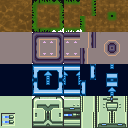
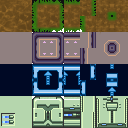
Add sketch of level 2

diff --git a/src/game/level1.cpp b/src/game/level1.cpp
@@ -17,78 +17,148 @@
 #include "game/game.h"
 #include "game/entities/switch.h"
 
-void loadLevel1(Matrix<int>& tiles, Vector2i& start, IGame* game)
-{
-  const auto W = 32 * 2;
-  const auto H = 32 * 2;
+const auto W = 32 * 2;
+const auto H = 32 * 2;
 
-  const char data[H][W + 1] =
-  {
-    "................................................................",
-    "...       .........................       ......................",
-    "...                                                           ..",
-    "...    !           ..........  ....       .......  .......... ..",
-    "............       .........   ..................  .......... ..",
-    "............       .........  ..............   A   .X.......  ..",
-    ".       ....   ... .........   ..       ....   ... .........   .",
-    ".              ...     ......  ..              ... ..........  .",
-    ".           ..............     ..           ..............     .",
-    ".       ..................    ...       ..................    ..",
-    ".  ..........        ........ ...  ..........        ........ ..",
-    ". ........... ...... ........ ...  .......... ...... ........ ..",
-    "............. ...... ............ ........... ...... ........ ..",
-    ".             ......          ... ..          ......          ..",
-    "..           ................      .         ...................",
-    ".. ......................................... ...................",
-    ".. .........................................            a ......",
-    "..        ...................             .........XXXXXXXXXXXXX",
-    "XXX                           XXXXX                           XX",
-    "XXX                XXXXXXXXXX XXXXX                XXXXXXXXXX XX",
-    "XXXXXXXXXXXXXXXXXXBXXXXXXXXXX XXXXXXXXXXXXXX       XXXXXXXXXX XX",
-    "XXXXXXXXXXXX       XZXXXXXXX  XXXXXXXXXXXXXX       XXXXXXXXX  XX",
-    "X       XXXX   XXX XXXXXXXXX   XXXXXXXXXXXXX   XXX XXXXXXXXX   X",
-    "X              XXX XXXXXXXXXX  XXXXXXXXX       XXX XXXXXXXXXX  X",
-    "X           XXXXXXXXXXXXXX     XXXXXXXXX    XXXXXXXXXXX        X",
-    "X       XXXXXXXXXXXXXXXXXX    XXXXXXXXXXXXXXXXXXXXXXXXX XX    XX",
-    "X  XXXXXXXXXX        XXXXXXXXXXXXXXXXXXXXXXXX        XX XXXXX XX",
-    "X  XXXXXXXXXX XXXXXX XXXXXXXX            XXXX XXXXXX XX       bX",
-    "X XXXXXXXXXXX XXXXXX XXXXXXXX            XXXX XXXXXX XXXXXXXXXXX",
-    "X             XXXXXX          XXXXXXXXXX      XZXXXX           X",
-    "XXX          XXXXXXXXXXXXXXXXXXXXXXXXXXX     XXXXXXXXXXXXXXX  XX",
-    "XXXXXXXXXXXXXXXXXXXXXXXXXXXXXXXXXXXXXXXX XXXXXXXXXXXXXXXXXX   XX",
-    "XXXXXXXXXXXXXXXXXXXXXXXXXXXXXXX          XXXXXXXXXXXXXXXXX   XXX",
-    "XX    cXXXXXXXXX                XXXXXXXXXXXXXXXXXXXXXXXXX   XXXX",
-    "XX  XXXXXXXXXXXX XXXXXXXXXXXXXXXXXXXXXXXXXXXX      XXXXX   XXXXX",
-    "ZZ  ZZZ          ZZZZZZZZZZZZZZZZZZZZZZXXXXXXXXXX  XXXX    XXXXX",
-    "ZZ ZZZZ ZZZZZZZZZZZZZZZ       ZZZZZZZZZ         C       ZZZZZZZZ",
-    "ZZ      ZZZZZZZZZZZZZZZ                         C       ZZZZZZZZ",
-    "ZZZZZZZZZZZZZZZZZ                        ZZZZZZZZZZZZZZZZZZZZZZZ",
-    "ZZZZZZZZZZ                    ZZZZZZZZZ  ZZZ       Z      Z    Z",
-    "ZZZZ             ZZZZZZZZZZZZZZZZZZZZZZ                        Z",
-    "ZZZZZZZZZZZZZZZZZZZZZZZZZZZZZZZZZZZZZZZ                        Z",
-    "ZZZZZZZZZZ       ZZZZZZZZZZZZZZZZZZZZZZZZZZZ       Z      Z    Z",
-    "ZZZZZZZZZZ               Z      ZZZZZZZZZZZZZZZZZZZZZZ  ZZZZZZZZ",
-    "ZZZZZZZZZZ       ZZ             ZZZZZZZZZZZZZZZZZZZZ      ZZZZZZ",
-    "ZZZZZZ       ZZ  ZZ      Z           ZZ                   ZZZZZZ",
-    "ZZZZZZ       ZZ  ZZ      Z      XXX  ZZ  ZZZZZZZZZZZ      ZZZZZZ",
-    "ZZZZZZ           ZZZZ  ZZZZZZZZZXXXZ ZZ  ZZZZZZZZZZZZZZZZZZZZZZZ",
-    "ZZZZZZ           ZZZZ          ZZZZZ ZZ  ZZ                ZZZZZ",
-    "ZZZZZZ  ZZZZZZZZZZZZZZZZZZZZZZ ZZZZZ     ZZ    ZZ ZZZZZZZZ ZZZZZ",
-    "ZZZZZZ  ZZZZZZZZZZZZZ       ZZ ZZZZZZZZZZZZZZZZZZ ZZZZZZ   ZZZZZ",
-    "ZZ               ZZZZ       ZZ ZZZZZZZZZZZ        ZZZZZZ  ZZZZZZ",
-    "ZZ ZZZZZZZZZZZZZZZZZZ          ZZZZZZZZ        ZZZZZ       ZZZZZ",
-    "ZZ ZZZZZZZZZZZ     D        ZZZZZZZZZZZ    ZZZZZZZZ    ZZZ    ZZ",
-    "ZZ       ZZZZZ  ZZZZZ       ZZZZZZZZZZZ  Z ZZZZZ       ZZZ    ZZ",
-    "ZZZ    d ZZZZZ  ZZZZZZZZZZZZZZZZZZZZ       ZZZZZ       ZZZ    ZZ",
-    "ZZZZZZZXZZZZ      ZZZ     ZZZZ       ZZZZZZZZ      ZZZZZZZ ZZZZZ",
-    "ZZZZZZZZZZZZ  ZZ      ZZZ       ZZZZZZZZZZZZZ ZZZZZZZZZZZZ ZZZZZ",
-    "ZZZZ          ZZ  ZZZZZZZZZZZZZZZZZZZZZZZZ            ZZZZZZZZZZ",
-    "ZZ    ZZZZZZ      ZZZZZZZZZZZZZZZZ         ZZZZZZZZ   ZZZXXXXXXX",
-    "ZZ  ZZZZZZZZZZZZZZZZZZZZZZZZZZZZZZZZZZZZZZZZZZZZZZZZZZZZZX     X",
-    "ZZ                                                             X",
-    "ZZZZZZZZZZZZZZZZZZZZZZZZZZZZZZZZZZZZZZZZZZZZZZZZZZZZZZZZZX     X",
-    "ZZZZZZZZZZZZZZZZZZZZZZZZZZZZZZZZZZZZZZZZZZZZZZZZZZZZZZZZZXXXXXXX",
-  };
+static const char data_level1[H][W + 1] =
+{
+  "................................................................",
+  "...       .........................       ......................",
+  "...                                                           ..",
+  "...    !           ..........  ....       .......  .......... ..",
+  "............       .........   ..................  .......... ..",
+  "............       .........  ..............   A   .X.......  ..",
+  ".       ....   ... .........   ..       ....   ... .........   .",
+  ".              ...     ......  ..              ... ..........  .",
+  ".           ..............     ..           ..............     .",
+  ".       ..................    ...       ..................    ..",
+  ".  ..........        ........ ...  ..........        ........ ..",
+  ". ........... ...... ........ ...  .......... ...... ........ ..",
+  "............. ...... ............ ........... ...... ........ ..",
+  ".             ......          ... ..          ......          ..",
+  "..           ................      .         ...................",
+  ".. ......................................... ...................",
+  ".. .........................................            a ......",
+  "..        ...................             .........XXXXXXXXXXXXX",
+  "XXX                           XXXXX                           XX",
+  "XXX                XXXXXXXXXX XXXXX                XXXXXXXXXX XX",
+  "XXXXXXXXXXXXXXXXXXBXXXXXXXXXX XXXXXXXXXXXXXX       XXXXXXXXXX XX",
+  "XXXXXXXXXXXX       XZXXXXXXX  XXXXXXXXXXXXXX       XXXXXXXXX  XX",
+  "X       XXXX   XXX XXXXXXXXX   XXXXXXXXXXXXX   XXX XXXXXXXXX   X",
+  "X              XXX XXXXXXXXXX  XXXXXXXXX       XXX XXXXXXXXXX  X",
+  "X           XXXXXXXXXXXXXX     XXXXXXXXX    XXXXXXXXXXX        X",
+  "X       XXXXXXXXXXXXXXXXXX    XXXXXXXXXXXXXXXXXXXXXXXXX XX    XX",
+  "X  XXXXXXXXXX        XXXXXXXXXXXXXXXXXXXXXXXX        XX XXXXX XX",
+  "X  XXXXXXXXXX XXXXXX XXXXXXXX            XXXX XXXXXX XX       bX",
+  "X XXXXXXXXXXX XXXXXX XXXXXXXX            XXXX XXXXXX XXXXXXXXXXX",
+  "X             XXXXXX          XXXXXXXXXX      XZXXXX           X",
+  "XXX          XXXXXXXXXXXXXXXXXXXXXXXXXXX     XXXXXXXXXXXXXXX  XX",
+  "XXXXXXXXXXXXXXXXXXXXXXXXXXXXXXXXXXXXXXXX XXXXXXXXXXXXXXXXXX   XX",
+  "XXXXXXXXXXXXXXXXXXXXXXXXXXXXXXX          XXXXXXXXXXXXXXXXX   XXX",
+  "XX    cXXXXXXXXX                XXXXXXXXXXXXXXXXXXXXXXXXX   XXXX",
+  "XX  XXXXXXXXXXXX XXXXXXXXXXXXXXXXXXXXXXXXXXXX      XXXXX   XXXXX",
+  "ZZ  ZZZ          ZZZZZZZZZZZZZZZZZZZZZZXXXXXXXXXX  XXXX    XXXXX",
+  "ZZ ZZZZ ZZZZZZZZZZZZZZZ       ZZZZZZZZZ         C       ZZZZZZZZ",
+  "ZZ      ZZZZZZZZZZZZZZZ                         C       ZZZZZZZZ",
+  "ZZZZZZZZZZZZZZZZZ                        ZZZZZZZZZZZZZZZZZZZZZZZ",
+  "ZZZZZZZZZZ                    ZZZZZZZZZ  ZZZ       Z      Z    Z",
+  "ZZZZ             ZZZZZZZZZZZZZZZZZZZZZZ                        Z",
+  "ZZZZZZZZZZZZZZZZZZZZZZZZZZZZZZZZZZZZZZZ                        Z",
+  "ZZZZZZZZZZ       ZZZZZZZZZZZZZZZZZZZZZZZZZZZ       Z      Z    Z",
+  "ZZZZZZZZZZ               Z      ZZZZZZZZZZZZZZZZZZZZZZ  ZZZZZZZZ",
+  "ZZZZZZZZZZ       ZZ             ZZZZZZZZZZZZZZZZZZZZ      ZZZZZZ",
+  "ZZZZZZ       ZZ  ZZ      Z           ZZ                   ZZZZZZ",
+  "ZZZZZZ       ZZ  ZZ      Z      XXX  ZZ  ZZZZZZZZZZZ      ZZZZZZ",
+  "ZZZZZZ           ZZZZ  ZZZZZZZZZXXXZ ZZ  ZZZZZZZZZZZZZZZZZZZZZZZ",
+  "ZZZZZZ           ZZZZ          ZZZZZ ZZ  ZZ                ZZZZZ",
+  "ZZZZZZ  ZZZZZZZZZZZZZZZZZZZZZZ ZZZZZ     ZZ    ZZ ZZZZZZZZ ZZZZZ",
+  "ZZZZZZ  ZZZZZZZZZZZZZ       ZZ ZZZZZZZZZZZZZZZZZZ ZZZZZZ   ZZZZZ",
+  "ZZ               ZZZZ       ZZ ZZZZZZZZZZZ        ZZZZZZ  ZZZZZZ",
+  "ZZ ZZZZZZZZZZZZZZZZZZ          ZZZZZZZZ        ZZZZZ       ZZZZZ",
+  "ZZ ZZZZZZZZZZZ     D        ZZZZZZZZZZZ    ZZZZZZZZ    ZZZ    ZZ",
+  "ZZ       ZZZZZ  ZZZZZ       ZZZZZZZZZZZ  Z ZZZZZ       ZZZ    ZZ",
+  "ZZZ    d ZZZZZ  ZZZZZZZZZZZZZZZZZZZZ       ZZZZZ       ZZZ    ZZ",
+  "ZZZZZZZXZZZZ      ZZZ     ZZZZ       ZZZZZZZZ      ZZZZZZZ ZZZZZ",
+  "ZZZZZZZZZZZZ  ZZ      ZZZ       ZZZZZZZZZZZZZ ZZZZZZZZZZZZ ZZZZZ",
+  "ZZZZ          ZZ  ZZZZZZZZZZZZZZZZZZZZZZZZ            ZZZZZZZZZZ",
+  "ZZ    ZZZZZZ      ZZZZZZZZZZZZZZZZ         ZZZZZZZZ   ZZZXXXXXXX",
+  "ZZ  ZZZZZZZZZZZZZZZZZZZZZZZZZZZZZZZZZZZZZZZZZZZZZZZZZZZZZX     X",
+  "ZZ                                                             X",
+  "ZZZZZZZZZZZZZZZZZZZZZZZZZZZZZZZZZZZZZZZZZZZZZZZZZZZZZZZZZX     X",
+  "ZZZZZZZZZZZZZZZZZZZZZZZZZZZZZZZZZZZZZZZZZZZZZZZZZZZZZZZZZXXXXXXX",
+};
+
+static const char data_level2[H][W + 1] =
+{
+  "ZZZZZZZZZZZZZZZZZZZZZZZZZZZZZZZZZZZZZZZZZZZZZZZZZZZZZZZZZZZZZZZZ",
+  "ZZZZZZZZZZZZZZZZZZZZZZZZZZZZZZZZZZZZZZZZZZZZZZZZZZZZZZZZZZZZZZZZ",
+  "ZZ             ZZZZZZ            ZZZZZ           ZZZZ         ZZ",
+  "ZZ                                 A                          ZZ",
+  "ZZ  !                              A                          ZZ",
+  "ZZZZZZ     ZZZZZZZZZZ            ZZZZZ           ZZZZ         ZZ",
+  "ZZZZZZZZZZZZZZZZZZZZZZZZZ   ZZZZZZZZZZZZZZZZZZZZZZZZZZZZ      ZZ",
+  "ZZZZZZZZZZZZZZZZZZZZZZZZZ   ZZZZZZZZZZZZZZZZZZZZZZZZZZZZZ     ZZ",
+  "XXXXXXZZZZZZZZZZZZZZZZZZZ  ZZZZZZZZZZZZZZZZZZZZZZZZZZZZZZ    ZZZ",
+  "XXXXXX         ZZZZZZ            ZZZZZ           ZZZZ         ZZ",
+  "Xa                       Z        ZZ                       ZZZZZ",
+  "XXXXXX                 Z   Z      ZZ                      ZZ  ZZ",
+  "XXXXXX     ZZZZZZZZZZ            ZZZZZ           ZZZZ         ZZ",
+  "ZZZZZZZZZZZZZZZZZZZZZZZZZZZZZZZZZZZZZZZZZZZZZZZZZZZZZZZZZZZZZZZZ",
+  "ZZZZZZZZZZZZZZZZZZZZZZZZZZZZZZZZZZZZZZZZZZZZZZZZZZZZZZZZZZZZZZZZ",
+  "ZZZZZZZZZZZZZZZZZZZZZZZZZZZZZZZZZZZZZZZZZZZZZZZZZZZZZZZZZZZZZZZZ",
+  "ZZZZZZZZZZZZZZZZZZZZZZZZZZZZZZZZZZZZZZZZZZZZZZZZZZZZZZZZZZZZZZZZ",
+  "ZZZZZZZZZZZZZZZZZZZZZZZZZZZZZZZZZZZZZZZZZZZZZZZZZZZZZZZZZZZZZZZZ",
+  "ZZZZZZZZZZZZZZZZZZZZZZZZZZZZZZZZZZZZZZZZZZZZZZZZZZZZZZZZZZZZZZZZ",
+  "ZZZZZZZZZZZZZZZZZZZZZZZZZZZZZZZZZZZZZZZZZZZZZZZZZZZZZZZZZZZZZZZZ",
+  "ZZZZZZZZZZZZZZZZZZZZZZZZZZZZZZZZZZZZZZZZZZZZZZZZZZZZZZZZZZZZZZZZ",
+  "ZZZZZZZZZZZZZZZZZZZZZZZZZZZZZZZZZZZZZZZZZZZZZZZZZZZZZZZZZZZZZZZZ",
+  "ZZZZZZZZZZZZZZZZZZZZZZZZZZZZZZZZZZZZZZZZZZZZZZZZZZZZZZZZZZZZZZZZ",
+  "ZZZZZZZZZZZZZZZZZZZZZZZZZZZZZZZZZZZZZZZZZZZZZZZZZZZZZZZZZZZZZZZZ",
+  "XXXXXXXXXXXXXXXXXXXXXXXXXXXXXXXXXXXXXXXXXXXXXXXXXXXXXXXXXXXXXXXX",
+  "XXXXXXXXXXXXXXXXXXXXXXXXXXXXXXXXXXXXXXXXXXXXXXXXXXXXXXXXXXXXXXXX",
+  "XXXXXXXXXXXXXXXXXXXXXXXXXXXXXXXXXXXXXXXXXXXXXXXXXXXXXXXXXXXXXXXX",
+  "XXXXXXXXXXXXXXXXXXXXXXXXXXXXXXXXXXXXXXXXXXXXXXXXXXXXXXXXXXXXXXXX",
+  "XXXXXXXXXXXXXXXXXXXXXXXXXXXXXXXXXXXXXXXXXXXXXXXXXXXXXXXXXXXXXXXX",
+  "XXXXXXXXXXXXXXXXXXXXXXXXXXXXXXXXXXXXXXXXXXXXXXXXXXXXXXXXXXXXXXXX",
+  "XXXXXXXXXXXXXXXXXXXXXXXXXXXXXXXXXXXXXXXXXXXXXXXXXXXXXXXXXXXXXXXX",
+  "XXXXXXXXXXXXXXXXXXXXXXXXXXXXXXXXXXXXXXXXXXXXXXXXXXXXXXXXXXXXXXXX",
+  "XXXXXXXXXXXXXXXXXXXXXXXXXXXXXXXXXXXXXXXXXXXXXXXXXXXXXXXXXXXXXXXX",
+  "XXXXXXXXXXXXXXXXXXXXXXXXXXXXXXXXXXXXXXXXXXXXXXXXXXXXXXXXXXXXXXXX",
+  "XXXXXXXXXXXXXXXXXXXXXXXXXXXXXXXXXXXXXXXXXXXXXXXXXXXXXXXXXXXXXXXX",
+  "XXXXXXXXXXXXXXXXXXXXXXXXXXXXXXXXXXXXXXXXXXXXXXXXXXXXXXXXXXXXXXXX",
+  "XXXXXXXXXXXXXXXXXXXXXXXXXXXXXXXXXXXXXXXXXXXXXXXXXXXXXXXXXXXXXXXX",
+  "XXXXXXXXXXXXXXXXXXXXXXXXXXXXXXXXXXXXXXXXXXXXXXXXXXXXXXXXXXXXXXXX",
+  "XXXXXXXXXXXXXXXXXXXXXXXXXXXXXXXXXXXXXXXXXXXXXXXXXXXXXXXXXXXXXXXX",
+  "XXXXXXXXXXXXXXXXXXXXXXXXXXXXXXXXXXXXXXXXXXXXXXXXXXXXXXXXXXXXXXXX",
+  "XXXXXXXXXXXXXXXXXXXXXXXXXXXXXXXXXXXXXXXXXXXXXXXXXXXXXXXXXXXXXXXX",
+  "XXXXXXXXXXXXXXXXXXXXXXXXXXXXXXXXXXXXXXXXXXXXXXXXXXXXXXXXXXXXXXXX",
+  "XXXXXXXXXXXXXXXXXXXXXXXXXXXXXXXXXXXXXXXXXXXXXXXXXXXXXXXXXXXXXXXX",
+  "XXXXXXXXXXXXXXXXXXXXXXXXXXXXXXXXXXXXXXXXXXXXXXXXXXXXXXXXXXXXXXXX",
+  "XXXXXXXXXXXXXXXXXXXXXXXXXXXXXXXXXXXXXXXXXXXXXXXXXXXXXXXXXXXXXXXX",
+  "XXXXXXXXXXXXXXXXXXXXXXXXXXXXXXXXXXXXXXXXXXXXXXXXXXXXXXXXXXXXXXXX",
+  "XXXXXXXXXXXXXXXXXXXXXXXXXXXXXXXXXXXXXXXXXXXXXXXXXXXXXXXXXXXXXXXX",
+  "XXXXXXXXXXXXXXXXXXXXXXXXXXXXXXXXXXXXXXXXXXXXXXXXXXXXXXXXXXXXXXXX",
+  "XXXXXXXXXXXXXXXXXXXXXXXXXXXXXXXXXXXXXXXXXXXXXXXXXXXXXXXXXXXXXXXX",
+  "XXXXXXXXXXXXXXXXXXXXXXXXXXXXXXXXXXXXXXXXXXXXXXXXXXXXXXXXXXXXXXXX",
+  "XXXXXXXXXXXXXXXXXXXXXXXXXXXXXXXXXXXXXXXXXXXXXXXXXXXXXXXXXXXXXXXX",
+  "XXXXXXXXXXXXXXXXXXXXXXXXXXXXXXXXXXXXXXXXXXXXXXXXXXXXXXXXXXXXXXXX",
+  "XXXXXXXXXXXXXXXXXXXXXXXXXXXXXXXXXXXXXXXXXXXXXXXXXXXXXXXXXXXXXXXX",
+  "XXXXXXXXXXXXXXXXXXXXXXXXXXXXXXXXXXXXXXXXXXXXXXXXXXXXXXXXXXXXXXXX",
+  "XXXXXXXXXXXXXXXXXXXXXXXXXXXXXXXXXXXXXXXXXXXXXXXXXXXXXXXXXXXXXXXX",
+  "XXXXXXXXXXXXXXXXXXXXXXXXXXXXXXXXXXXXXXXXXXXXXXXXXXXXXXXXXXXXXXXX",
+  "XXXXXXXXXXXXXXXXXXXXXXXXXXXXXXXXXXXXXXXXXXXXXXXXXXXXXXXXXXXXXXXX",
+  "XXXXXXXXXXXXXXXXXXXXXXXXXXXXXXXXXXXXXXXXXXXXXXXXXXXXXXXXXXXXXXXX",
+  "XXXXXXXXXXXXXXXXXXXXXXXXXXXXXXXXXXXXXXXXXXXXXXXXXXXXXXXXXXXXXXXX",
+  "XXXXXXXXXXXXXXXXXXXXXXXXXXXXXXXXXXXXXXXXXXXXXXXXXXXXXXXXXXXXXXXX",
+  "XXXXXXXXXXXXXXXXXXXXXXXXXXXXXXXXXXXXXXXXXXXXXXXXXXXXXXXXXXXXXXXX",
+  "XXXXXXXXXXXXXXXXXXXXXXXXXXXXXXXXXXXXXXXXXXXXXXXXXXXXXXXXXXXXXXXX",
+  "XXXXXXXXXXXXXXXXXXXXXXXXXXXXXXXXXXXXXXXXXXXXXXXXXXXXXXXXXXXXXXXX",
+  "XXXXXXXXXXXXXXXXXXXXXXXXXXXXXXXXXXXXXXXXXXXXXXXXXXXXXXXXXXXXXXXX",
+};
+
+void loadLevel(Matrix<int>& tiles, Vector2i& start, IGame* game, int number)
+{
+  auto data = number ? data_level2 : data_level1;
 
   for(int y = 0; y < H; ++y)
     for(int x = 0; x < W; ++x)

diff --git a/src/game/game.cpp b/src/game/game.cpp
@@ -26,7 +26,7 @@
 using namespace std;
 
 array<int, 4> computeTileFor(Matrix<int> const& m, int x, int y);
-void loadLevel1(Matrix<int>& tiles, Vector2i& start, IGame* game);
+void loadLevel(Matrix<int>& tiles, Vector2i& start, IGame* game, int number);
 
 class Game : public Scene, public IGame
 {
@@ -45,8 +45,10 @@ public:
     m_tiles.scan(onCell);
 
     Vector2i start;
-    loadLevel1(m_tiles, start, this);
+    loadLevel(m_tiles, start, this, 1);
     m_player->pos = Vector2f(start.x, start.y);
+
+    addRandomWidgets();
   }
 
   void addRandomWidgets()
@@ -68,7 +70,7 @@ public:
                     return true;
                   };
 
-    for(int i = 0; i < 100; ++i)
+    for(int i = 0; i < 1000; ++i)
     {
       auto const maxX = m_tiles.getWidth() - 4;
       auto const maxY = m_tiles.getHeight() - 4;
@@ -125,9 +127,10 @@ public:
   {
     vector<Actor> r;
 
+    auto const limit = 3.5f;
     Vector2f pov;
-    pov.x = clamp(m_player->pos.x, 3.0f, m_tiles.getWidth() - 3.0f - 1);
-    pov.y = clamp(m_player->pos.y, 3.0f, m_tiles.getHeight() - 3.0f - 1);
+    pov.x = clamp(m_player->pos.x, limit, m_tiles.getWidth() - limit - 1);
+    pov.y = clamp(m_player->pos.y, limit, m_tiles.getHeight() - limit - 1);
 
     auto onCell = [&] (int x, int y, int tile)
                   {

diff --git a/src/game/entities/player.h b/src/game/entities/player.h
@@ -7,8 +7,9 @@
 #include "game/entity.h"
 #include "game/models.h"
 #include "game/sounds.h"
+#include "game/toggle.h"
 
-auto const SHIP_SPEED = 0.01;
+auto const SHIP_SPEED = 0.0075;
 auto const BULLET_SPEED = 0.20;
 
 class Player : public Entity
@@ -44,10 +45,10 @@ public:
     // gravity
     vel.y -= 0.00005;
 
-    if(c.up && ground)
+    if(jumpbutton.toggle(c.up) && ground)
     {
       game->playSound(SND_CHIRP);
-      vel.y = 0.02;
+      vel.y = 0.015;
     }
 
     if(vel.y > 0 && !c.up)
@@ -87,7 +88,7 @@ public:
     cooldown = max(cooldown - 1, 0);
     landingCooldown = max(landingCooldown - 1, 0);
 
-    if(c.fire && cooldown == 0)
+    if(firebutton.toggle(c.fire) && cooldown == 0)
     {
       cooldown = 150;
       /*
@@ -131,5 +132,6 @@ public:
   Int landingCooldown;
   Vector2f vel;
   bool ground;
+  Toggle jumpbutton, firebutton;
 };
 

diff --git a/src/game/toggle.h b/src/game/toggle.h
@@ -1,0 +1,14 @@
+#pragma once
+
+struct Toggle
+{
+  bool toggle(bool newState)
+  {
+    auto const oldState = state;
+    state = newState;
+    return newState && !oldState;
+  }
+
+  Bool state;
+};
+
